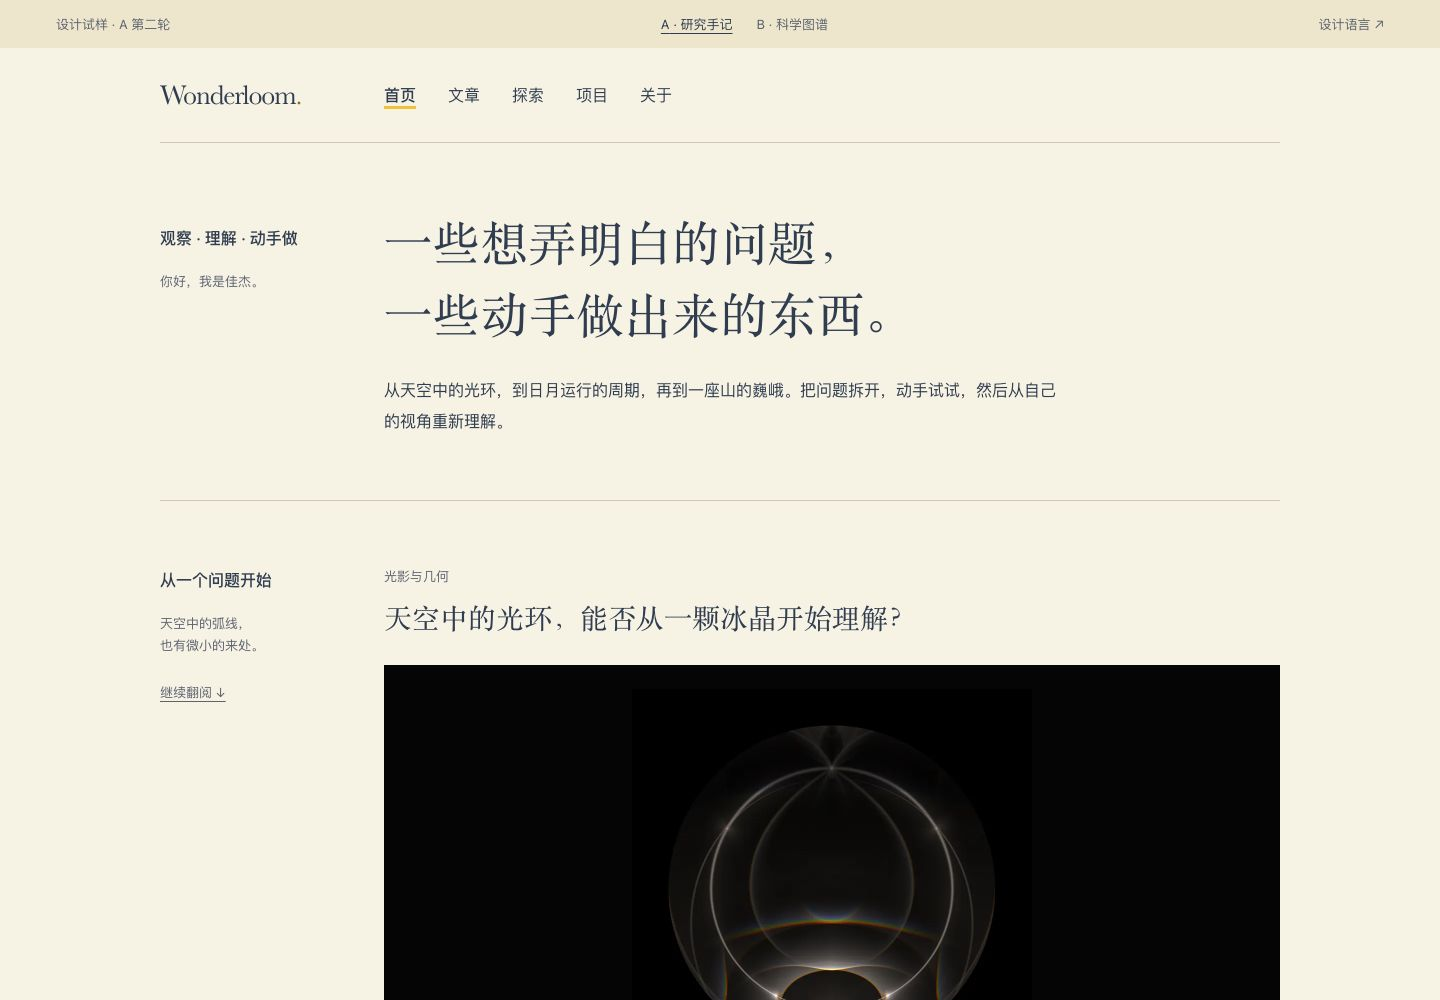
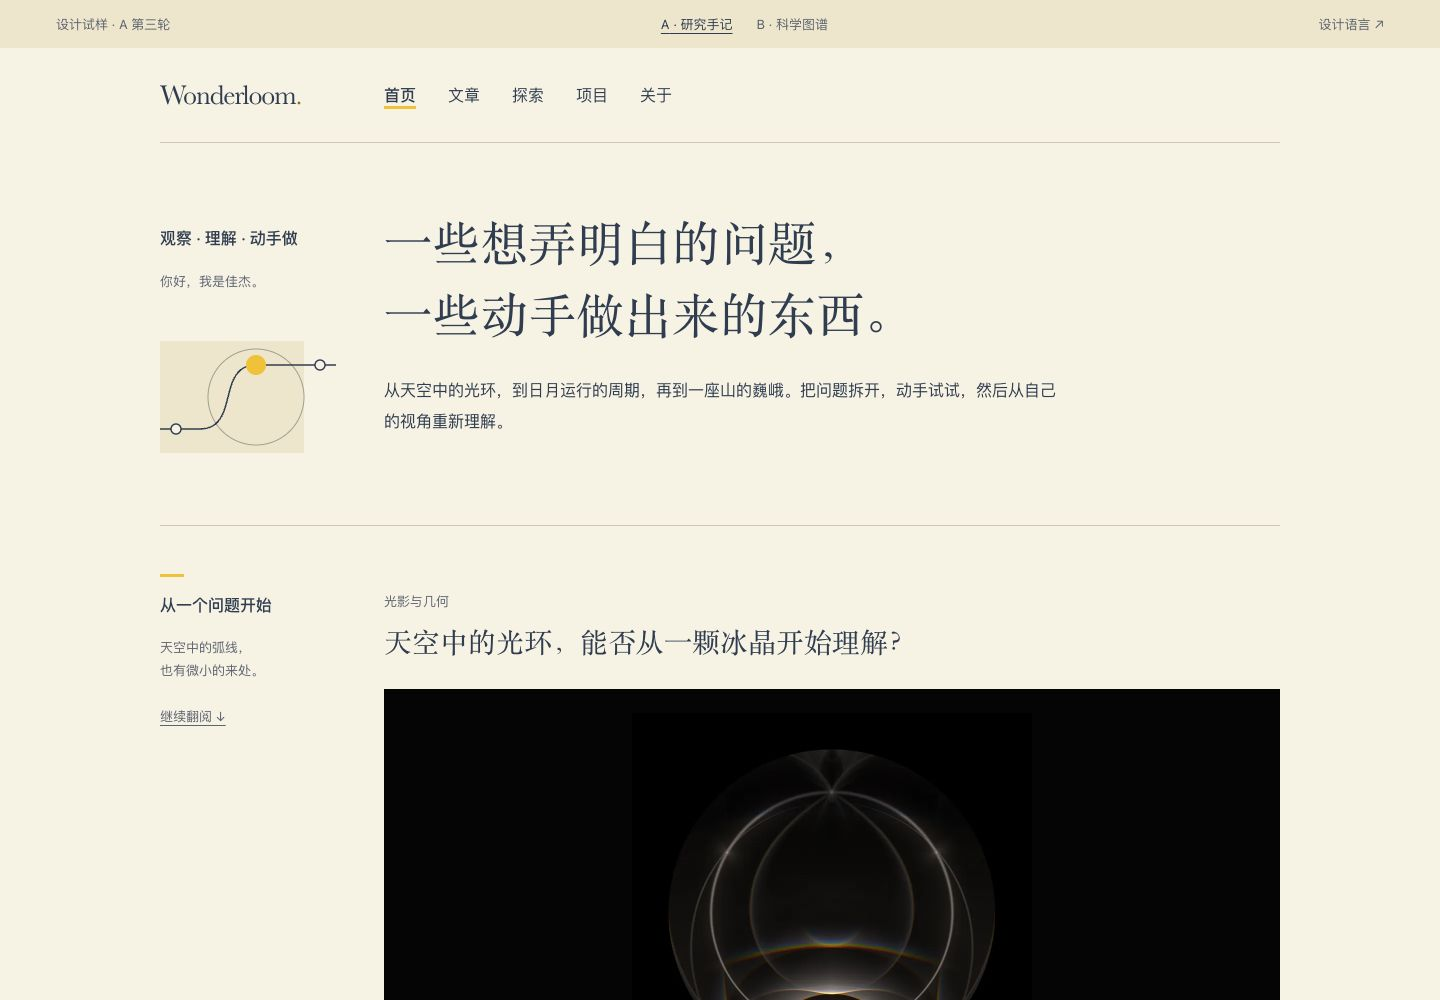
feat(research-atlas): restore connected paths and notebook accents

Changed region(s): [[0.25, 0.558, 0.9062, 1.0], [0.0938, 0.558, 0.1875, 0.744], [0.0938, 0.341, 0.2188, 0.465]]

diff --git a/src/styles/notebook.css b/src/styles/notebook.css
@@ -2,6 +2,7 @@
 .notebook {
   font: var(--nb-weight) var(--nb-body-size)/var(--nb-body-leading) var(--sans);
 }
+.notebook *::before, .notebook *::after { box-sizing: border-box; }
 .notebook h1 {
   font: var(--nb-weight) var(--nb-page-size)/var(--nb-page-leading) var(--serif);
 }
@@ -68,6 +69,33 @@
 .notebook .nb-opening-copy > p { margin-top: var(--nb-space-3); max-width: 42em; }
 .notebook :is(.notebook-opening, .research-page-intro) > :first-child { padding-top: var(--nb-space-2); }
 
+/* 线、节点、淡色底。底色向留白延伸，文字保留原来的对齐轴。 */
+.notebook .nb-surface { position: relative; isolation: isolate; }
+.notebook .nb-surface::before {
+  content: '';
+  position: absolute;
+  z-index: -1;
+  inset: 0 calc(-1 * var(--nb-surface-bleed));
+  background: var(--wash);
+  pointer-events: none;
+}
+.notebook :is(.nb-section > .nb-margin, .nb-connections-heading) > .nb-rail-title { position: relative; }
+.notebook :is(.nb-section > .nb-margin, .nb-connections-heading) > .nb-rail-title::before {
+  content: '';
+  position: absolute;
+  top: calc(-1 * var(--nb-space-2));
+  left: 0;
+  width: var(--nb-space-3);
+  height: 3px;
+  background: var(--highlight);
+}
+.notebook .nb-trace { display: block; width: 100%; max-width: 176px; height: auto; margin-top: var(--nb-space-3); }
+.notebook .nb-trace-paper { fill: var(--wash); }
+.notebook .nb-trace-orbit { stroke: var(--nb-thread); stroke-width: 1; }
+.notebook .nb-trace-line { stroke: var(--ink); stroke-width: 1.5; stroke-dasharray: 1; animation: nb-trace-draw var(--nb-motion-intro) var(--nb-ease) both; }
+.notebook .nb-trace-node { fill: var(--paper); stroke: var(--ink); stroke-width: 1.5; }
+.notebook .nb-trace-light { fill: var(--highlight); }
+
 /* 试样工具条与站点导航。 */
 .notebook .edition-bar {
   display: flex;
@@ -129,11 +157,37 @@
   border-top: var(--nb-rule);
 }
 .notebook .nb-note p { margin-top: var(--nb-space-1); }
-.notebook .home-path-list > a { display: block; text-decoration: none; }
+.notebook .home-path-list > a { position: relative; display: block; text-decoration: none; }
 .notebook .home-path-list > a + a { margin-top: var(--nb-space-4); }
+.notebook .home-path-list > a:not(.all-writing)::after {
+  content: '';
+  position: absolute;
+  left: calc(-1 * var(--nb-track-offset) - var(--nb-node-size) / 2);
+  top: calc(var(--nb-entry-size) * var(--nb-title-leading) / 2 - var(--nb-node-size) / 2);
+  width: var(--nb-node-size);
+  height: var(--nb-node-size);
+  border: 2px solid var(--nb-thread);
+  border-radius: 50%;
+  background: var(--wash);
+  transition: background var(--nb-motion-fast), border-color var(--nb-motion-fast);
+}
+.notebook .home-path-list > a:has(+ a:not(.all-writing))::before {
+  content: '';
+  position: absolute;
+  left: calc(-1 * var(--nb-track-offset) - .5px);
+  width: 1px;
+  top: calc(var(--nb-entry-size) * var(--nb-title-leading) / 2);
+  bottom: calc(-1 * (var(--nb-space-4) + var(--nb-entry-size) * var(--nb-title-leading) / 2));
+  background: var(--nb-thread);
+}
+.notebook .home-path-list > a:is(:hover, :focus-visible)::after { background: var(--highlight); border-color: var(--ink); }
 .notebook .home-path-list h3 { display: flex; justify-content: space-between; gap: var(--nb-space-3); }
 .notebook .home-path-list p { margin-top: var(--nb-space-2); }
 .notebook .home-path-list .all-writing { text-decoration: underline; padding-block: var(--nb-space-1); }
+.notebook :is(.home-path-list h3 span, .research-path h3 span, .article-arrow) { display: inline-block; transition: transform var(--nb-motion-fast) var(--nb-ease); }
+.notebook :is(.home-path-list > a, .research-path h3 a):is(:hover, :focus-visible) span,
+.notebook .research-article-list li:focus-within .article-arrow,
+.notebook .research-article-list li:hover .article-arrow { transform: translate(3px, -3px); }
 .notebook .home-colophon { border-top: var(--nb-rule); padding-top: var(--nb-space-8); }
 .notebook .home-colophon .research-link { margin-top: var(--nb-space-2); }
 
@@ -151,9 +205,29 @@
 .notebook .writing-contents nav a:hover { text-decoration: underline; }
 .notebook .writing-contents nav span { white-space: nowrap; }
 .notebook .writing-group + .writing-group { margin-top: var(--nb-space-8); }
+.notebook .writing-group-header { padding-block: var(--nb-space-3); }
+.notebook .writing-group-header::after {
+  content: '';
+  position: absolute;
+  inset: 0 auto auto 0;
+  width: var(--nb-space-6);
+  height: 3px;
+  background: var(--highlight);
+}
 .notebook .writing-group-header p { margin-top: var(--nb-space-2); }
 .notebook .research-article-list { padding: 0; list-style: none; margin-top: var(--nb-space-4); }
-.notebook .research-article-list li { position: relative; padding-block: var(--nb-space-3); border-top: var(--nb-rule); }
+.notebook .research-article-list li { position: relative; isolation: isolate; padding-block: var(--nb-space-3); border-top: var(--nb-rule); }
+.notebook .research-article-list li::before {
+  content: '';
+  position: absolute;
+  z-index: -1;
+  inset: 0 calc(-1 * var(--nb-surface-bleed));
+  background: var(--surface);
+  opacity: 0;
+  pointer-events: none;
+  transition: opacity var(--nb-motion-fast) var(--nb-ease);
+}
+.notebook .research-article-list li:is(:hover, :focus-within)::before { opacity: 1; }
 .notebook .article-number { position: absolute; right: calc(100% + var(--nb-space-2)); top: var(--nb-space-3); line-height: calc(var(--nb-entry-size) * var(--nb-title-leading)); }
 .notebook .research-article-list p { margin-top: var(--nb-space-2); }
 .notebook .article-open { display: none; }
@@ -169,12 +243,35 @@
 .notebook .research-path header > p { margin-top: var(--nb-space-2); }
 .notebook .research-path ol { list-style: none; padding: 0; margin-top: var(--nb-space-3); }
 .notebook .research-path li { position: relative; padding-block: var(--nb-space-1); }
-.notebook .path-stop { position: absolute; right: calc(100% + var(--nb-space-2)); line-height: calc(var(--nb-body-size) * var(--nb-body-leading)); }
+.notebook .path-stop {
+  position: absolute;
+  left: calc(-1 * var(--nb-track-offset) - var(--nb-node-size) / 2);
+  top: calc(var(--nb-space-1) + var(--nb-body-size) * var(--nb-body-leading) / 2 - var(--nb-node-size) / 2);
+  width: var(--nb-node-size);
+  height: var(--nb-node-size);
+  border: 2px solid var(--nb-thread);
+  border-radius: 50%;
+  background: var(--paper);
+  transition: background var(--nb-motion-fast), border-color var(--nb-motion-fast), transform var(--nb-motion-fast) var(--nb-ease);
+}
+.notebook .research-path li:not(:last-child)::before {
+  content: '';
+  position: absolute;
+  left: calc(-1 * var(--nb-track-offset) - .5px);
+  top: calc(var(--nb-space-1) + var(--nb-body-size) * var(--nb-body-leading) / 2);
+  bottom: calc(-1 * (var(--nb-space-1) + var(--nb-body-size) * var(--nb-body-leading) / 2));
+  width: 1px;
+  background: var(--nb-thread);
+}
+.notebook .research-path li:first-child .path-stop { background: var(--highlight); border-color: var(--ink); }
+.notebook .research-path li:is(:hover, :focus-within) .path-stop { background: var(--highlight); border-color: var(--ink); transform: scale(1.2); }
 .notebook .research-path li > div { display: flex; flex-direction: column-reverse; }
 .notebook .research-path li a { text-decoration: none; }
 .notebook .research-path li a:hover { text-decoration: underline; }
 .notebook .nb-connections-heading { margin-bottom: var(--nb-space-4); }
 .notebook .nb-connections-heading > div > p + p { margin-top: var(--nb-space-2); }
+.notebook .connection-reading { padding-block: var(--nb-space-3); }
+.notebook [data-enhanced] .connection-detail:not([hidden]) .connection-detail-body { animation: nb-reading-in var(--nb-motion-read) var(--nb-ease) both; }
 .notebook .connection-index { display: flex; flex-direction: column; }
 .notebook .connection-index button {
   position: relative;
@@ -188,7 +285,19 @@
   text-align: left;
   cursor: pointer;
 }
-.notebook .node-dot { display: none; }
+.notebook .node-dot {
+  position: absolute;
+  display: block;
+  left: calc(-1 * var(--nb-track-offset) - 3px);
+  top: calc(50% - 3px);
+  width: 6px;
+  height: 6px;
+  border: 1px solid var(--nb-thread);
+  border-radius: 50%;
+  background: var(--paper);
+  transition: background var(--nb-motion-fast);
+}
+.notebook .connection-index [aria-pressed='true'] .node-dot { background: var(--ink); border-color: var(--ink); }
 .notebook .connection-index button::before {
   content: '';
   position: absolute;
@@ -226,11 +335,16 @@
 .notebook .nb-swatch { height: 64px; margin-bottom: var(--nb-space-1); border: var(--nb-rule); }
 .notebook .nb-spec-prose > p + p { margin-top: var(--nb-space-2); }
 
+@keyframes nb-trace-draw { from { stroke-dashoffset: 1; } to { stroke-dashoffset: 0; } }
+@keyframes nb-reading-in { from { opacity: 0; transform: translateY(4px); } to { opacity: 1; transform: none; } }
+
 @media (max-width: 760px) {
   .notebook .nb-grid { grid-template-columns: minmax(0, 1fr); row-gap: var(--nb-space-3); }
   .notebook .nb-margin > p { margin-top: var(--nb-space-1); }
   .notebook .nb-margin > p br { display: none; }
   .notebook :is(.notebook-opening, .research-page-intro) > :first-child { padding-top: 0; }
+  .notebook .nb-opening-margin { position: relative; min-height: 72px; padding-right: 104px; }
+  .notebook .nb-opening-margin .nb-trace { position: absolute; top: 0; right: 0; width: 88px; margin: 0; }
   .notebook .research-header { grid-template-columns: 1fr; gap: var(--nb-space-1); padding-block: var(--nb-space-2); }
   .notebook .research-header nav { gap: 0; justify-content: space-between; }
   .notebook .edition-bar { padding-inline: var(--nb-space-2); gap: var(--nb-space-1); }
@@ -243,8 +357,6 @@
   .notebook .writing-contents nav { display: flex; flex-wrap: wrap; gap: var(--nb-space-1) var(--nb-space-3); margin-top: var(--nb-space-1); }
   .notebook .writing-contents nav span { display: none; }
   .notebook .article-number { position: static; display: block; margin-bottom: var(--nb-space-1); line-height: var(--nb-meta-leading); }
-  .notebook .path-stop { position: static; display: block; line-height: var(--nb-meta-leading); }
-  .notebook .research-path li + li { margin-top: var(--nb-space-1); }
   .notebook .connection-index { flex-direction: row; flex-wrap: wrap; gap: 0 var(--nb-space-3); margin-bottom: var(--nb-space-2); }
   .notebook .connection-index button { width: auto; }
   .notebook .research-connections:not([data-enhanced]) .connection-reading { grid-column: 1; }

diff --git a/src/styles/tokens.css b/src/styles/tokens.css
@@ -44,6 +44,14 @@
   --nb-figure-inset: 24px;
   --nb-rule: 1px solid var(--line);
   --nb-focus: 2px solid var(--accent);
+  --nb-thread: #9d9f90;
+  --nb-node-size: 12px;
+  --nb-track-offset: 24px;
+  --nb-surface-bleed: 24px;
+  --nb-motion-fast: 180ms;
+  --nb-motion-read: 240ms;
+  --nb-motion-intro: 650ms;
+  --nb-ease: cubic-bezier(.2, .7, .3, 1);
 }
 @media (max-width: 1100px) {
   .notebook { --nb-rail: 144px; --nb-gutter: 32px; --nb-margin: 32px; }
@@ -57,5 +65,7 @@
     --nb-space-8: 48px;
     --nb-space-12: 64px;
     --nb-figure-inset: 16px;
+    --nb-track-offset: 12px;
+    --nb-surface-bleed: 12px;
   }
 }

diff --git a/docs/design/notebook-language.md b/docs/design/notebook-language.md
@@ -1,6 +1,6 @@
-# 研究手记 · 设计语言 v0.2
+# 研究手记 · 设计语言 v0.3
 
-适用于 A 方向的首页、文章、探索与设计语言试样。作者已选择 A 的气质，本轮验证统一性；审美效果仍待作者反馈。B 保留作为第一轮参考。
+适用于 A 方向的首页、文章、探索与设计语言试样。作者已认可第二轮的字号和空间节奏，第三轮在这些规则上补充线、节点、色面与轻交互，验证是否恢复网页的生动感。B 保留作为第一轮参考。
 
 ## 字体与层级
 
@@ -25,20 +25,32 @@
 - 两条主轴：页边索引左缘与正文左缘。页标题、问题标题、正文、图像外缘、图注、旁注均以正文轴起排。标题不再逐行缩进。
 - 段落间 16 px，标题与内容 / 同组信息间 24 px，条目内分组 32 px，独立条目间 48 px，章节内边距 64 px，页尾留白 96 px。基础单位 8 px。
 - 手机把页边索引放在正文之前，消除空栏；正文与辅助文字不继续缩小。
-- 编号放入预留的栏间空隙；标题和导读不再为了编号整体右移。步骤列表同理。手机编号进入流内，标题仍从主轴起排。
+- 文章编号放入预留的栏间空隙；标题和导读不再为了编号整体右移。路径节点挂在正文左侧的留白里。手机文章编号进入流内，路径节点保持连续，标题仍从主轴起排。
 
 ## 图版、旁注与表面
 
-- 纸色为页面底色，黛蓝为正文，缃色只用于当前状态。辅助灰仅用于来源、标签等辅助信息，不把所有段落降成灰色。
+- 纸色为页面底色，黛蓝为正文，缃色标记入口、章节短线与当前状态。辅助灰仅用于来源、标签等辅助信息，不把所有段落降成灰色。
 - 科学图完整展示，使用 contain；不裁切、不滤色。图框使用统一的内距；图像自身的黑色或白色底保留。无圆角、投影或装饰性边框。
 - 图注在图框外，左缘回到正文轴。来源另起一行，同为辅助文字档；不再出现比图注更小的第三档文字。
 - 普通旁注（“这页的另一端”）是正文流中的补充段，使用一条分隔线和辅助标签，不使用带内缩的色块。
-- 关系选择器的选中底色向页边留白延伸，文字仍对齐索引轴。解释区沿正文轴排版，不再嵌套一层带 padding 的卡片。
+- 关系选择器的选中底色向页边留白延伸，文字仍对齐索引轴。解释区、文章分组标题、首页阅读入口使用淡色底；背景向两侧留白延伸（桌面 24，手机 12），文字不随底色内缩。
 - 章节之间使用细分隔线，条目之间优先使用空白；线条不围合成卡片网格。
+
+## 线索与形状
+
+- 探索页的有序阅读路径恢复连续竖线与圆点。每个节点对齐该项标题的首行中心，连线止于末节点，不依赖固定条目高度；多行标题仍成立。
+- 首页阅读入口沿用点线语言。页边标题上方用短缃色线标记章节；文章分组以淡色底和短线强调起点。
+- 页首使用同一个装饰性 SVG：纸色小面、圆弧、连接三个节点的曲线。它表达研究手记的“线索”，不冒充科学数据，也不表示作品之间的实际关系。SVG 隐藏于辅助技术。
+- 作品之间的实际关联仍只取 `content-network.ts` 的人工关系。装饰线不能推导或增添内容关系。
 
 ## 交互
 
-原生滚动、标准锚点与文字链接。图像可打开完整图；键盘 focus 明确。关系选择保留按钮、选中状态和读屏播报，无 JavaScript 时回退为原生 details。移动端作品选择使用可换行的文字选项，保持至少 44 px 的触达高度。尊重 reduced-motion。
+原生滚动、标准锚点与文字链接。图像可打开完整图；键盘 focus 明确。关系选择保留按钮、选中状态和读屏播报，无 JavaScript 时回退为原生 details。移动端作品选择使用可换行的文字选项，保持至少 44 px 的触达高度。
+
+- 悬停与键盘焦点共享反馈：路径节点点亮，箭头轻移 3 px，文章背景轻亮。反馈时长 180 ms。
+- 切换作品时，解释以 240 ms 淡入并上移 4 px；不移动整个页面，不改变滚动位置。
+- 页首装饰线在加载时描画一次，650 ms；无循环、滚动监听、视差或滚动停靠。
+- reduced-motion 下停用所有过渡与动画，图线、文字和操作保持完整可见。
 
 ## 实现与后续约束
 

diff --git a/docs/design/research-atlas.md b/docs/design/research-atlas.md
@@ -2,6 +2,18 @@
 
 2026-10-20。作者希望减少首页的模板感、内页的连续双栏表格感，让全站更接近个人研究手记与科学图谱。本轮提供可直接浏览的比较页面，供继续讨论，不替换正式路由。
 
+## 第三轮：让线索可见
+
+作者认可第二轮的字号和空间节奏，同时指出过于平淡，明确希望探索页恢复“线串圆点”。第三轮沿用五档文字与两条主轴，增加一组共用的视觉细节：
+
+- 阅读路径恢复连续竖线和圆点，第一站以缃色标记。手机与多行标题的连线按条目实际高度计算；首页阅读入口使用相同的点线语言。
+- 页首共用一幅装饰性 SVG，表达从观察到连接的线索；不代表科学数据或实际作品关系。章节采用短缃色线，文章分组、首页阅读入口、当前作品解释使用淡色底。底色向留白延伸，文字对齐不变。
+- 节点点亮、文章底色与箭头轻移同时响应鼠标和键盘；作品切换以 240 ms 淡入，页首线条在打开页面时描画一次。reduced-motion 下停用动画与过渡，内容完整显示。
+- A 四页 × 六种宽度的 24 组字体与对齐检查通过；六个 A/B 页面 24 组回归和两组无 JS 回退通过。四种宽度 × 两种动效偏好另测路径连线连续性、末端收束和键盘点亮。
+- `npm run check`：57 文件无错误、警告或提示；构建 37 页；站点检查 1166 个本地链接与资源通过。
+
+视觉验收采用本地生产构建截图；本轮继续等待作者判断装饰和动效的分量。
+
 ## 第二轮：A 的统一设计语言
 
 作者选择 A，并指出字号、字重、色块内缩和对齐的零碎感。第二轮先定义[研究手记设计语言](notebook-language.md)，再统一首页、文章、探索，并提供 `/directions/research/notebook/language/` 真实样张。
